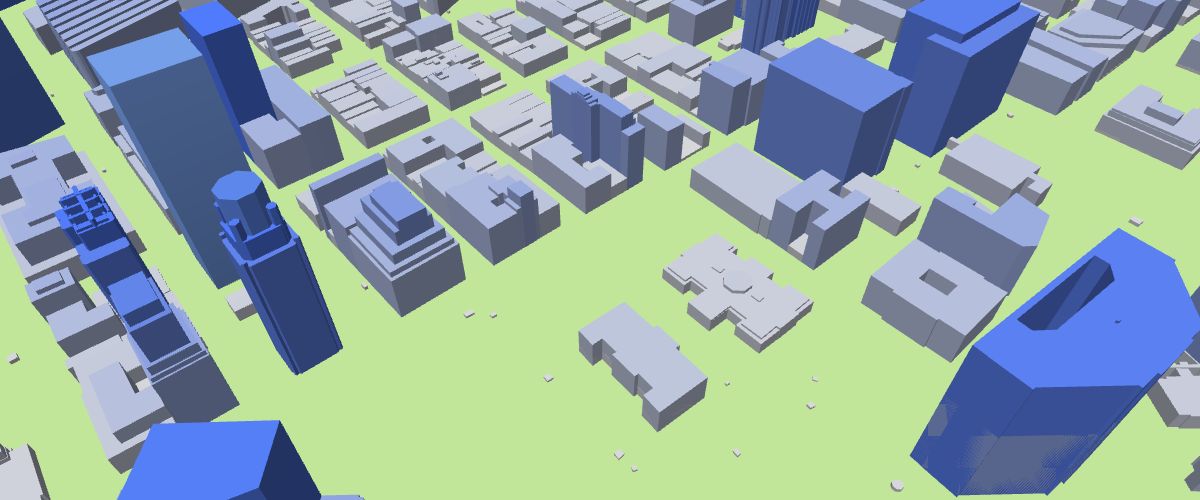
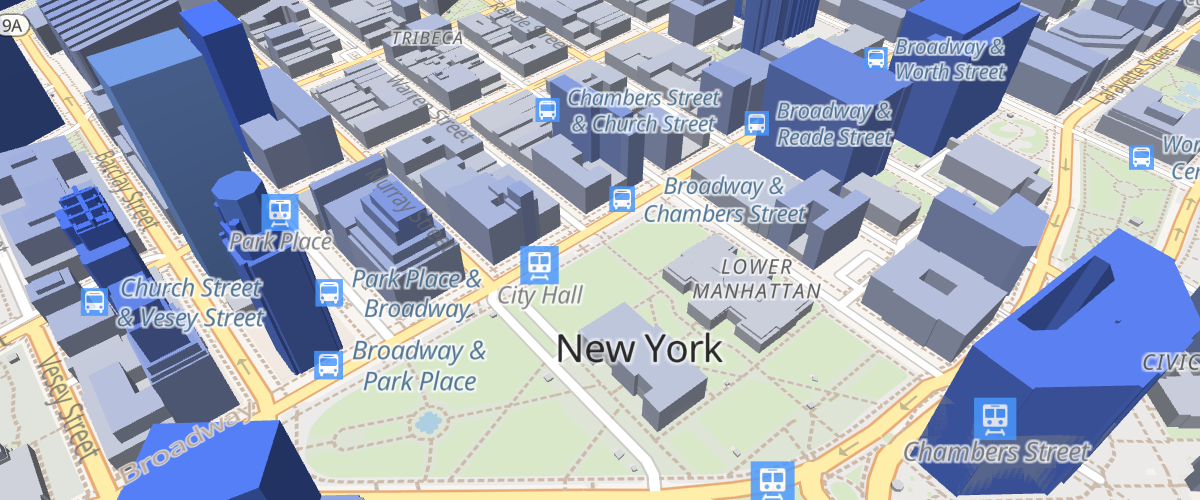
Code review comments.

diff --git a/test/examples/display-buildings-in-3d.html b/test/examples/display-buildings-in-3d.html
@@ -16,7 +16,7 @@
 <div id="map"></div>
 <script>
   const map = new maplibregl.Map({
-      style: `https://demotiles.maplibre.org/style.json`,
+      style: `https://tiles.openfreemap.org/styles/bright`,
       center: [-74.0066, 40.7135],
       zoom: 15.5,
       pitch: 45,
